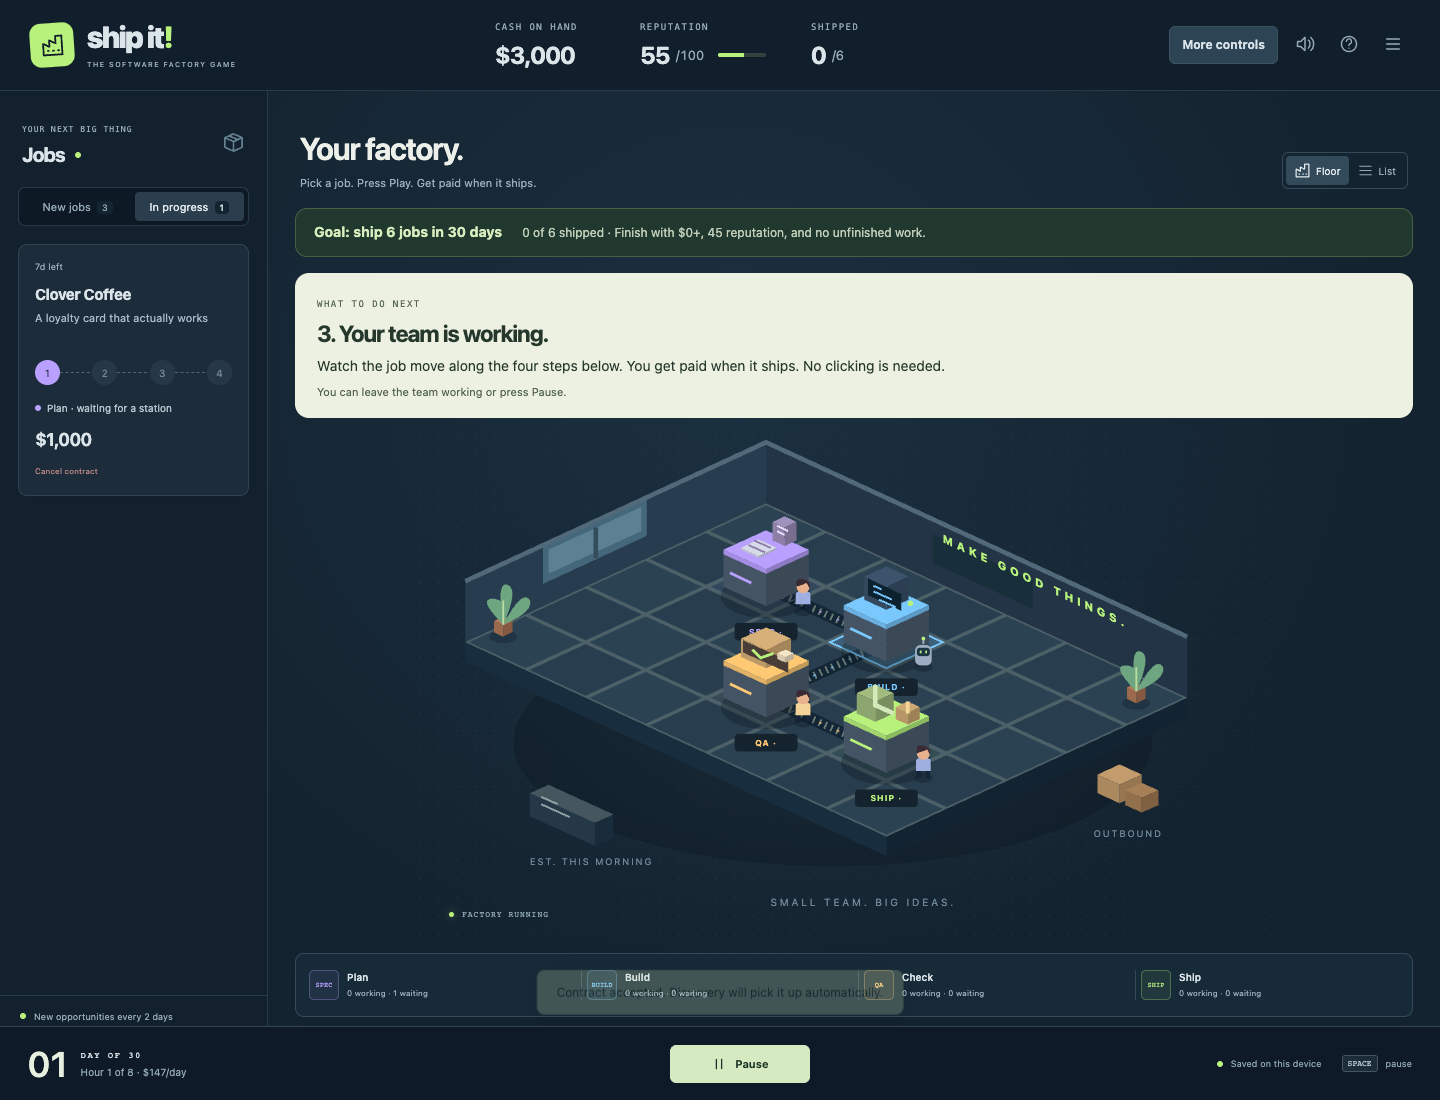
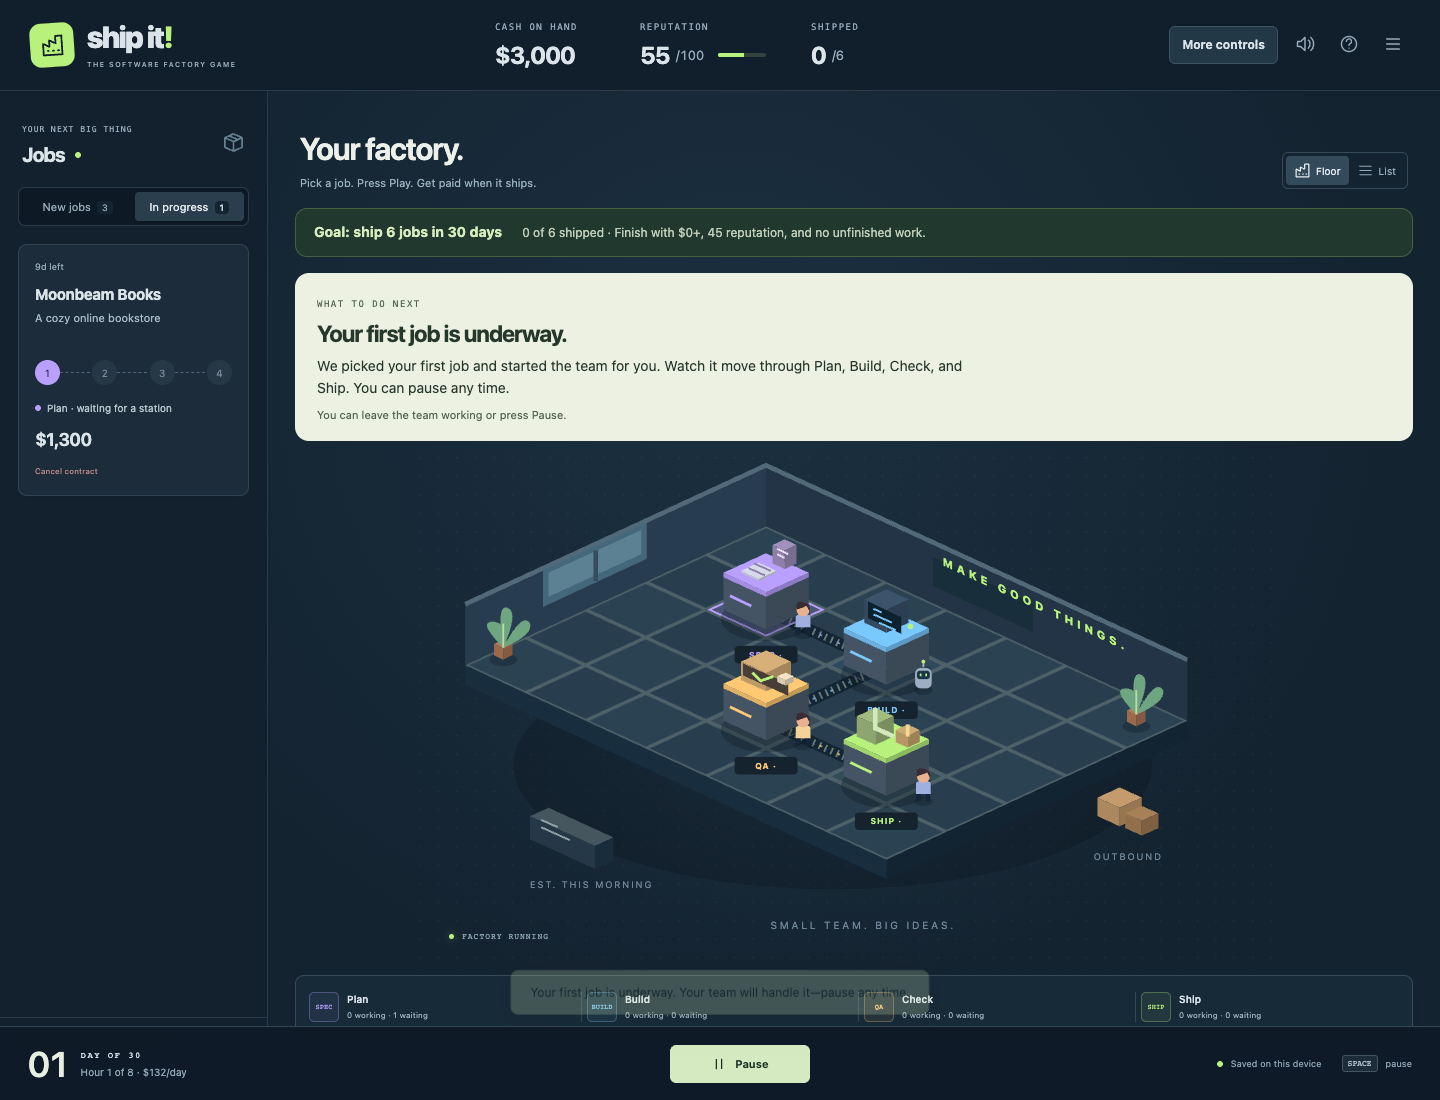
Start the first job automatically in new factories

diff --git a/src/main.js b/src/main.js
@@ -366,7 +366,7 @@ function startDialog() {
   render();
   showDialog(
     'start',
-    `<div class="welcome-art"><span class="welcome-stamp">YOUR TEAM IS READY.</span><div class="hero-factory">${icon('factory', 80)}</div><span class="hero-crate crate-a">SPEC</span><span class="hero-crate crate-b">BUILD</span><span class="hero-crate crate-c">SHIP</span><div class="welcome-title"><span class="eyebrow">A SMALL TEAM. AN UNREASONABLE DEADLINE.</span><h2 id="dialog-title">Run a tiny<br><em>software factory.</em></h2><p>Pick jobs. Let your team build them. Get paid when they ship.</p></div></div><div class="welcome-body">${started ? closeButton() : ''}<ol class="quick-start"><li><b>1</b><span>Pick a job</span></li><li><b>2</b><span>Press Play</span></li><li><b>3</b><span>Get paid</span></li></ol><p class="start-summary" id="start-summary">${SCENARIOS[startScenario].name} · ${STUDIOS[startStudio].name} · ${SCENARIOS[startScenario].goal ? `Ship ${SCENARIOS[startScenario].goal} jobs in ${SCENARIOS[startScenario].days} days.` : 'No deadline.'}</p><div class="start-buttons"><button class="button primary large" data-action="start">${saved ? 'Start fresh' : 'Start playing'} ${icon('arrow', 19)}</button>${saved ? '<button class="button secondary large" data-action="continue">Continue my factory</button>' : ''}</div><details class="start-options"><summary>Change game options</summary><div class="scenario-options">${Object.entries(
+    `<div class="welcome-art"><span class="welcome-stamp">YOUR TEAM IS READY.</span><div class="hero-factory">${icon('factory', 80)}</div><span class="hero-crate crate-a">SPEC</span><span class="hero-crate crate-b">BUILD</span><span class="hero-crate crate-c">SHIP</span><div class="welcome-title"><span class="eyebrow">A SMALL TEAM. AN UNREASONABLE DEADLINE.</span><h2 id="dialog-title">Run a tiny<br><em>software factory.</em></h2><p>Your first job starts automatically. Watch your team build it and get paid.</p></div></div><div class="welcome-body">${started ? closeButton() : ''}<ol class="quick-start"><li><b>1</b><span>Start playing</span></li><li><b>2</b><span>Watch your team</span></li><li><b>3</b><span>Get paid</span></li></ol><p class="start-summary" id="start-summary">${SCENARIOS[startScenario].name} · ${STUDIOS[startStudio].name} · ${SCENARIOS[startScenario].goal ? `Ship ${SCENARIOS[startScenario].goal} jobs in ${SCENARIOS[startScenario].days} days.` : 'No deadline.'}</p><div class="start-buttons"><button class="button primary large" data-action="start">${saved ? 'Start fresh' : 'Start playing'} ${icon('arrow', 19)}</button>${saved ? '<button class="button secondary large" data-action="continue">Continue my factory</button>' : ''}</div><details class="start-options"><summary>Change game options</summary><div class="scenario-options">${Object.entries(
       SCENARIOS,
     )
       .map(
@@ -449,7 +449,7 @@ function menuDialog() {
   render();
   showDialog(
     'menu',
-    `${closeButton()}<span class="eyebrow">TAKE A BREATHER</span><h2 id="dialog-title">The workshop menu.</h2><div class="menu-grid"><button class="button secondary" data-action="export">${icon('download')} Export save</button><button class="button secondary" data-action="import">Import save</button><button class="button secondary" data-action="share">Share challenge</button><button class="button secondary" data-action="report">Factory report</button><button class="button secondary" data-action="help">How to play</button><button class="button secondary" data-action="new">New factory</button></div><div class="settings-row"><label for="sound-setting">Sound effects <small>Quiet feedback for actions and deliveries</small></label><input id="sound-setting" type="checkbox" data-setting="sound" ${settings.sound ? 'checked' : ''}/></div><div class="settings-row"><label for="motion-setting">Animated workshop <small>Switch off for reduced motion</small></label><input id="motion-setting" type="checkbox" data-setting="motion" ${settings.motion ? 'checked' : ''}/></div><p class="tiny-note">Autosaves stay in this browser. Export a save to move devices or keep multiple factories. Opening menus pauses the shift.</p><div class="about-line"><strong>Ship It! · v1.2.0</strong><span>Made for people who make things.</span></div>`,
+    `${closeButton()}<span class="eyebrow">TAKE A BREATHER</span><h2 id="dialog-title">The workshop menu.</h2><div class="menu-grid"><button class="button secondary" data-action="export">${icon('download')} Export save</button><button class="button secondary" data-action="import">Import save</button><button class="button secondary" data-action="share">Share challenge</button><button class="button secondary" data-action="report">Factory report</button><button class="button secondary" data-action="help">How to play</button><button class="button secondary" data-action="new">New factory</button></div><div class="settings-row"><label for="sound-setting">Sound effects <small>Quiet feedback for actions and deliveries</small></label><input id="sound-setting" type="checkbox" data-setting="sound" ${settings.sound ? 'checked' : ''}/></div><div class="settings-row"><label for="motion-setting">Animated workshop <small>Switch off for reduced motion</small></label><input id="motion-setting" type="checkbox" data-setting="motion" ${settings.motion ? 'checked' : ''}/></div><p class="tiny-note">Autosaves stay in this browser. Export a save to move devices or keep multiple factories. Opening menus pauses the shift.</p><div class="about-line"><strong>Ship It! · v1.2.1</strong><span>Made for people who make things.</span></div>`,
   );
 }
 function helpDialog() {
@@ -457,7 +457,7 @@ function helpDialog() {
   render();
   showDialog(
     'help',
-    `${closeButton()}<span class="eyebrow">HOW TO PLAY</span><h2 id="dialog-title">Three steps. One little factory.</h2><ol class="simple-help"><li><h3>Pick a job</h3><p>Open New jobs and press Accept job. Your starting team is already assigned.</p></li><li><h3>Press Play</h3><p>Your team plans, builds, checks, and ships automatically. Pause whenever you want.</p></li><li><h3>Get paid, then repeat</h3><p>Money arrives when the job ships. Your team is paid every game day, so keep work moving.</p></li></ol><p class="dialog-lede">${SCENARIOS[s.scenario].goal ? `Win by shipping ${SCENARIOS[s.scenario].goal} jobs within ${SCENARIOS[s.scenario].days} days. Finish with at least $0, 45 reputation, and no unfinished jobs or repairs.` : 'This is a sandbox. There is no deadline or game-over condition.'}</p><details class="extra-help"><summary>When you want more control</summary><p>Use More controls to hire people, add stations, choose work policies, buy coffee, and see trophies. Select a station to manage it. A new station needs a worker.</p><p>Late jobs pay less. Bugs that reach customers return as unpaid repairs. Maintaining idle stations removes wear and some code cleanup work.</p><p>Space plays or pauses. N advances one hour. B opens the station catalog. The menu contains saves, sharing, and sound settings.</p></details><div class="dialog-actions"><button class="button primary" data-action="close">Got it</button></div>`,
+    `${closeButton()}<span class="eyebrow">HOW TO PLAY</span><h2 id="dialog-title">Three steps. One little factory.</h2><ol class="simple-help"><li><h3>Start playing</h3><p>Your first job is accepted and starts automatically. Your team is already hired and assigned.</p></li><li><h3>Watch your team</h3><p>Your team plans, builds, checks, and ships the job. Press Pause whenever you want.</p></li><li><h3>Get paid, then repeat</h3><p>Money arrives when the job ships. Then choose your next job under New jobs and press Play. Your team is paid every game day, so keep work moving.</p></li></ol><p class="dialog-lede">${SCENARIOS[s.scenario].goal ? `Win by shipping ${SCENARIOS[s.scenario].goal} jobs within ${SCENARIOS[s.scenario].days} days. Finish with at least $0, 45 reputation, and no unfinished jobs or repairs.` : 'This is a sandbox. There is no deadline or game-over condition.'}</p><details class="extra-help"><summary>When you want more control</summary><p>Use More controls to hire people, add stations, choose work policies, buy coffee, and see trophies. Select a station to manage it. A new station needs a worker.</p><p>Late jobs pay less. Bugs that reach customers return as unpaid repairs. Maintaining idle stations removes wear and some code cleanup work.</p><p>Space plays or pauses. N advances one hour. B opens the station catalog. The menu contains saves, sharing, and sound settings.</p></details><div class="dialog-actions"><button class="button primary" data-action="close">Got it</button></div>`,
   );
 }
 function download() {
@@ -669,13 +669,24 @@ document.addEventListener('click', async (e) => {
     $('#seed-input').value = `SHIFT-${bytes[0].toString(36).toUpperCase()}`;
   } else if (a === 'start') {
     s = newGame($('#seed-input').value, startScenario, startStudio);
-    selected = 's2';
-    tab = 'inbox';
+    const firstJob = s.offers[0];
+    const accepted = act(s, { type: 'accept', id: firstJob.id });
+    selected = 's1';
+    tab = 'active';
     mode = null;
     started = true;
+    speed = 1;
+    accumulator = 0;
+    lastTime = performance.now();
+    running = accepted.ok;
     closeDialog();
     persist();
     render();
+    toast(
+      accepted.ok
+        ? 'Your first job is underway. Your team will handle it—pause any time.'
+        : accepted.message,
+    );
   } else if (a === 'continue') {
     if (saved) {
       s = structuredClone(saved);

diff --git a/src/guide.js b/src/guide.js
@@ -30,7 +30,7 @@ export function nextStep(s, running) {
   if (!s.jobs.length && !s.warranty.length && (!goal || s.delivered < goal)) {
     return s.offers.length
       ? {
-          title: s.delivered ? 'Paid! Pick your next job.' : '1. Pick a job.',
+          title: s.delivered ? 'Paid! Pick your next job.' : 'Pick a job.',
           text: s.delivered
             ? `You have shipped ${s.delivered}${goal ? ` of ${goal}` : ''} jobs. Choose another from New jobs.`
             : 'Your team is already hired. Choose a job to give them something to make.',
@@ -45,7 +45,7 @@ export function nextStep(s, running) {
   }
   if (!running)
     return {
-      title: '2. Press Play.',
+      title: 'Press Play.',
       text: 'Your team plans, builds, checks, and ships the work automatically. You can pause any time.',
       action: 'play',
       label: 'Play',
@@ -62,8 +62,13 @@ export function nextStep(s, running) {
       action: 'report',
       label: 'See results',
     };
+  if (s.stats.accepted === 1 && !s.delivered)
+    return {
+      title: 'Your first job is underway.',
+      text: 'We picked your first job and started the team for you. Watch it move through Plan, Build, Check, and Ship. You can pause any time.',
+    };
   return {
-    title: '3. Your team is working.',
+    title: 'Your team is working.',
     text: 'Watch the job move along the four steps below. You get paid when it ships. No clicking is needed.',
   };
 }

diff --git a/README.md b/README.md
@@ -4,7 +4,7 @@
 
 **Run a tiny software factory.**
 
-Pick a job. Press Play. Get paid when it ships.
+Press Start playing. Your first job starts automatically.
 
 [**▶ Play in your browser**](https://hamanakam1.github.io/ship-it-game/) · [Player guide](docs/PLAYER-GUIDE.md) · [What's new](CHANGELOG.md)
 
@@ -16,10 +16,9 @@ Free. No account. No install. No purchases.
 
 ## How to play
 
-1. Press **Start playing**. Your team is already hired.
-2. Choose **Accept job** under a job you like.
-3. Press **Play**. Your team plans, builds, checks, and ships it automatically.
-4. Get paid, then choose another job.
+1. Press **Start playing**. We accept your first job and start your team.
+2. Watch the job move through Plan, Build, Check, and Ship. Pause any time.
+3. Get paid, then choose another job under **New jobs** and press **Play**.
 
 The card above the factory tells you what to do next. Time pauses when the last job ships, unless customer checks or repairs are still pending.
 

diff --git a/docs/PLAYER-GUIDE.md b/docs/PLAYER-GUIDE.md
@@ -2,9 +2,9 @@
 
 ## Start with one job
 
-1. Press **Start playing**.
-2. Under **New jobs**, pick a job and press **Accept job**.
-3. Press **Play**.
+1. Press **Start playing**. Your first job is accepted and begins automatically.
+2. Watch your team work. Press **Pause** whenever you want.
+3. After delivery, pick another job under **New jobs**, press **Accept job**, then **Play**.
 
 Your starting team is already hired and assigned. They move the job through **Plan → Build → Check → Ship** automatically. You get paid when it ships.
 

diff --git a/CHANGELOG.md b/CHANGELOG.md
@@ -1,5 +1,12 @@
 # Changelog
 
+## 1.2.1 — Your first job is ready
+
+- Starting a new factory accepts the first available job and starts work at normal speed.
+- First-job guidance explains what is happening and how to pause.
+- Continuing or importing an existing factory still leaves time paused and adds no jobs.
+- Updated start screen, help, and guides for the automatic first job.
+
 ## 1.2.0 — A simpler start
 
 - Start playing with one button; studio, scenario, and seed choices are optional.
